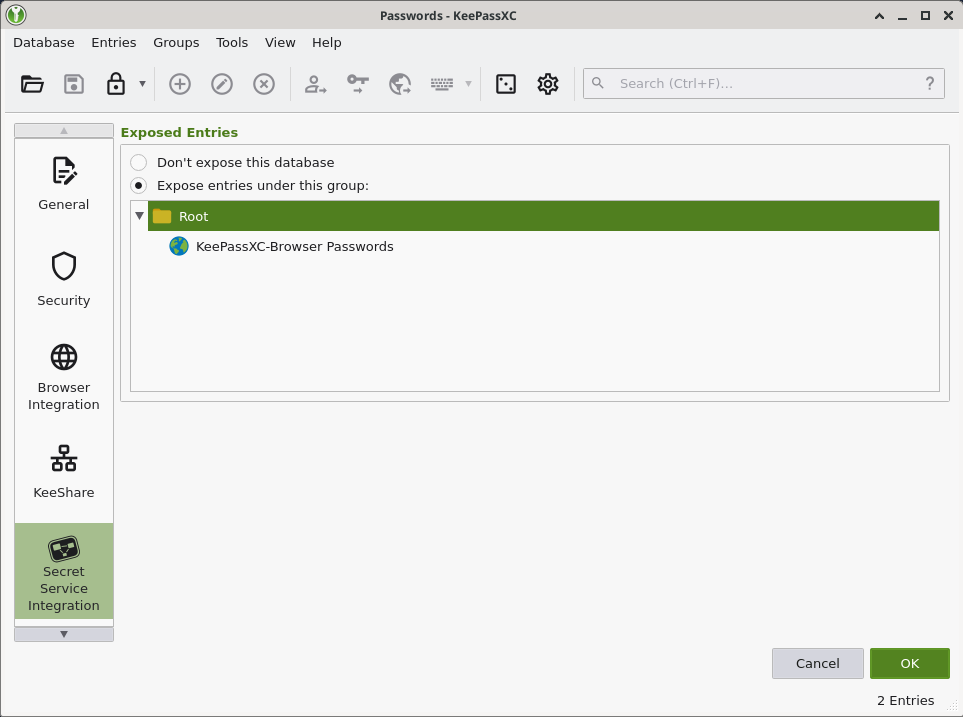
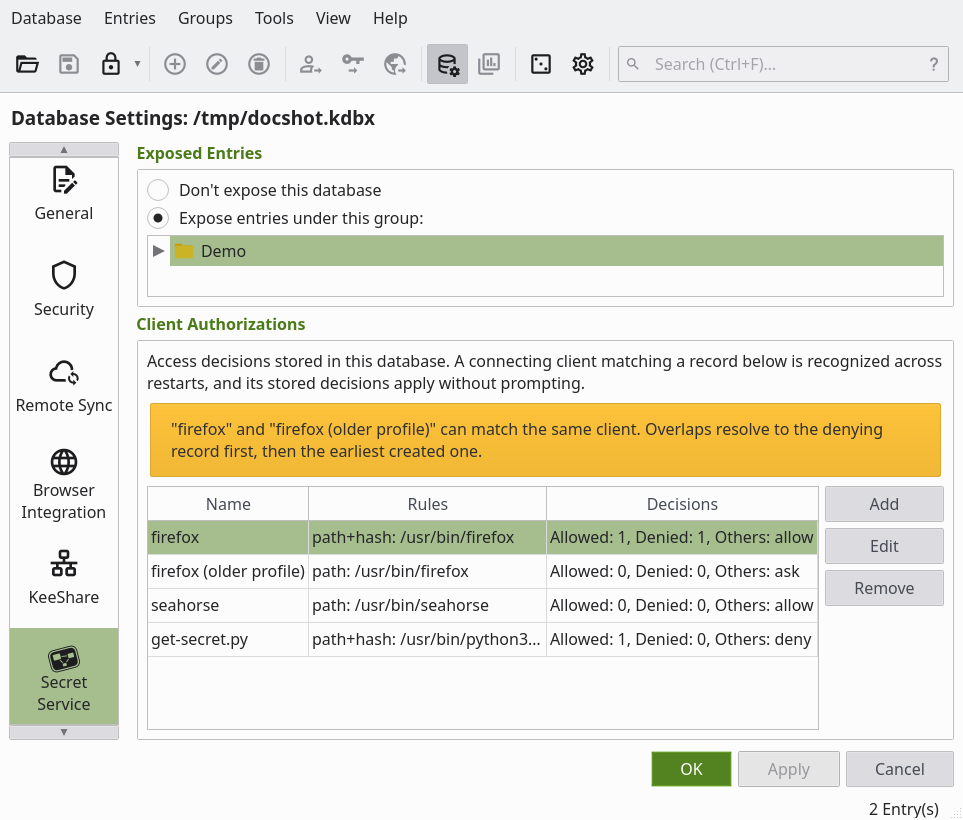
FdoSecrets: document client authorizations
The user documentation gains what the access request now asks and what it
means to remember a decision, how a client is recognized and where stored
decisions are managed, and what recognition does not prove: code running
inside a legitimate client inherits its authorizations, scripts sharing an
interpreter are indistinguishable unless the rule reaches further up the
process tree, and a process that hides its executable can never be
recognized.

The screenshots are regenerated, since the access request lost the
"& Future" buttons and both settings pages grew a section, and the tip
about secret-tool prompting on every run is gone: being recognized across
processes is exactly what this feature added.

The implementation README describes the two storage layers, why records
are one custom data key each, the two lookups a decision takes, why
resolution is not cached, and how connection state and stored decisions
combine.

diff --git a/src/fdosecrets/README.md b/src/fdosecrets/README.md
@@ -45,3 +45,90 @@ that the user interacts with.
 - If the database's exposed group changes, collection repopulates
 - If the database's exposed group changes to none, collection deletes itself
 - If the database's exposed group changes from none, the service recreates a collection
+
+## Client authorization
+
+Access decisions can outlive the DBus connection they were made on. They are
+stored in the database the entry belongs to, in two layers.
+
+### Identity records
+
+One record per logical client, in `Database::metadata()->customData()` under
+`FDO_SECRETS_CLIENT_<DBusClientId>`, holding a compact JSON document: a display
+name, a creation time, the matching rules, and a catch-all decision for entries
+without one of their own. A `DBusClientId` is a UUID minted when the record is
+created; entry-side decisions reference the client by it.
+
+One key per record rather than one document listing all of them: metadata
+customData merges as a whole, deciding per key by `_LAST_MODIFIED`, so a single
+document would lose updates whenever two machines both authorized something.
+The key prefix is registered in `CustomData::isProtected()` so a merge cannot
+delete records that only exist on one side.
+
+A rule is a conjunction of conditions and a record matches if any of its rules
+does. A condition constrains one process of the client's hierarchy
+(`PeerInfo::hierarchy`, index 0 being the caller) by executable path, by the
+file name of that path, or by a digest of the executable content. Anything that
+cannot be evaluated — a depth beyond the hierarchy, an unreadable executable, a
+digest algorithm this build does not know — fails the condition instead of
+being skipped, so an unusable rule never widens access.
+
+### Entry decisions
+
+Each entry carries its own decisions in its customData under
+`FDO_SECRETS_AUTH`: a JSON object mapping DBusClientId to `allow`/`deny`. They
+live on the entry so they follow it through moves, deletion and merges instead
+of leaving dangling uuids behind in the metadata, and so that a merge decides
+them together with the rest of the entry. Ids of records that no longer exist
+are ignored on read; removing a record sweeps them.
+
+Neither layer is visible over DBus: `Item::attributes()` exposes entry
+attributes, not customData.
+
+## Matching
+
+Answering "may this client read this entry" is two lookups, not a scan:
+
+1. **Resolution** maps the client to at most one record, by evaluating the
+   records of that database against the client's process hierarchy. Records
+   that can match the same client are a configuration smell rather than an
+   error, so resolution is deterministic: a record whose catch-all denies wins,
+   otherwise the one created first. The settings page warns about the overlap.
+2. **Decision** looks the resolved DBusClientId up in the entry's own
+   decisions, falling back to the record's catch-all.
+
+Resolution deliberately has no cache. Records are looked up by a customData key
+whose `_LAST_MODIFIED` timestamp has second resolution, which is not enough to
+notice that a record changed within the same second — and the failure mode of a
+stale cache here is honoring an authorization the user just revoked.
+
+A record whose non-digest conditions all hold while a digest condition fails
+identifies the client with changed executable content. That is not a match: the
+client is asked again, with the changed processes marked, and re-authorizing
+updates the digests of the existing record instead of adding a second one.
+
+### Hashing
+
+Digests are taken from `/proc/<pid>/exe`, which is the original inode: content
+is read even when the path has since been replaced or deleted. Reading fails
+for a process that is gone, owned by another user, or has `PR_SET_DUMPABLE`
+cleared, and a failure fails the condition.
+
+Hashing is lazy — conditions that do not need it are evaluated first, so a
+client only pays for it when everything cheaper about a record already matched
+— and results are cached per connection, including failures: a live process
+cannot change its `/proc/<pid>/exe`, and a reused pid must not be able to
+produce a different digest than the process first seen at that depth.
+
+## Runtime state versus stored decisions
+
+`DBusClient` holds what the current connection decided, nothing more: the
+decisions that apply to this request only, plus the ones just granted for
+entries the client itself created. Stored decisions are never copied into it,
+which is what keeps a catch-all from leaking from the database it was granted
+in to another one.
+
+`Service::authDecision()` is the only place the two are combined. Denials win
+within a layer, and a decision limited to this request wins over a stored one,
+so answering a prompt with Remember unchecked cannot be overruled by what the
+database holds.

diff --git a/CHANGELOG.md b/CHANGELOG.md
@@ -3,6 +3,10 @@
 ## 2.8.0 (Pending)
 * Placeholder for future release notes
 
+### Changes
+
+- Secret Service: Remember client authorizations across restarts by recognizing clients by their executable path and content, and manage them in the database and entry settings [#6458]
+
 ## 2.7.12 (2026-03-10)
 
 ### Changes
